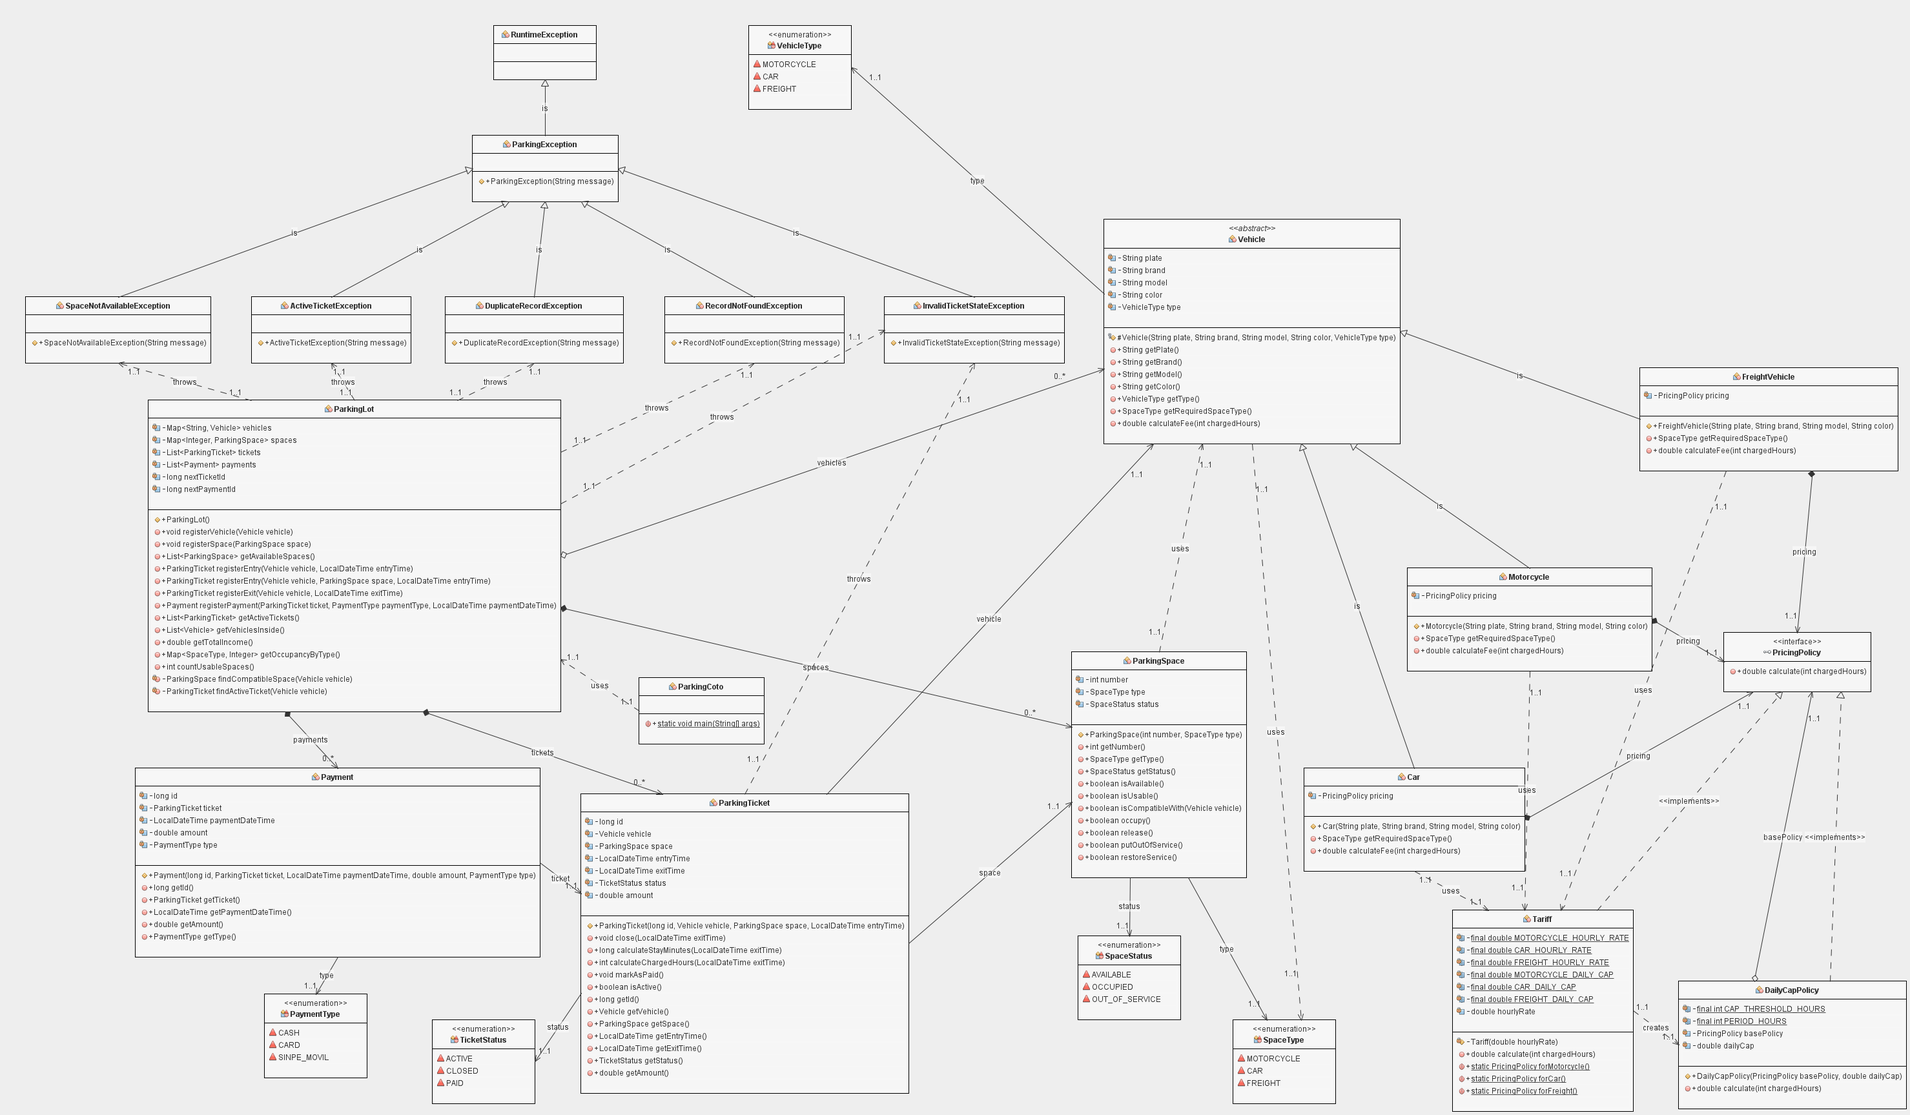
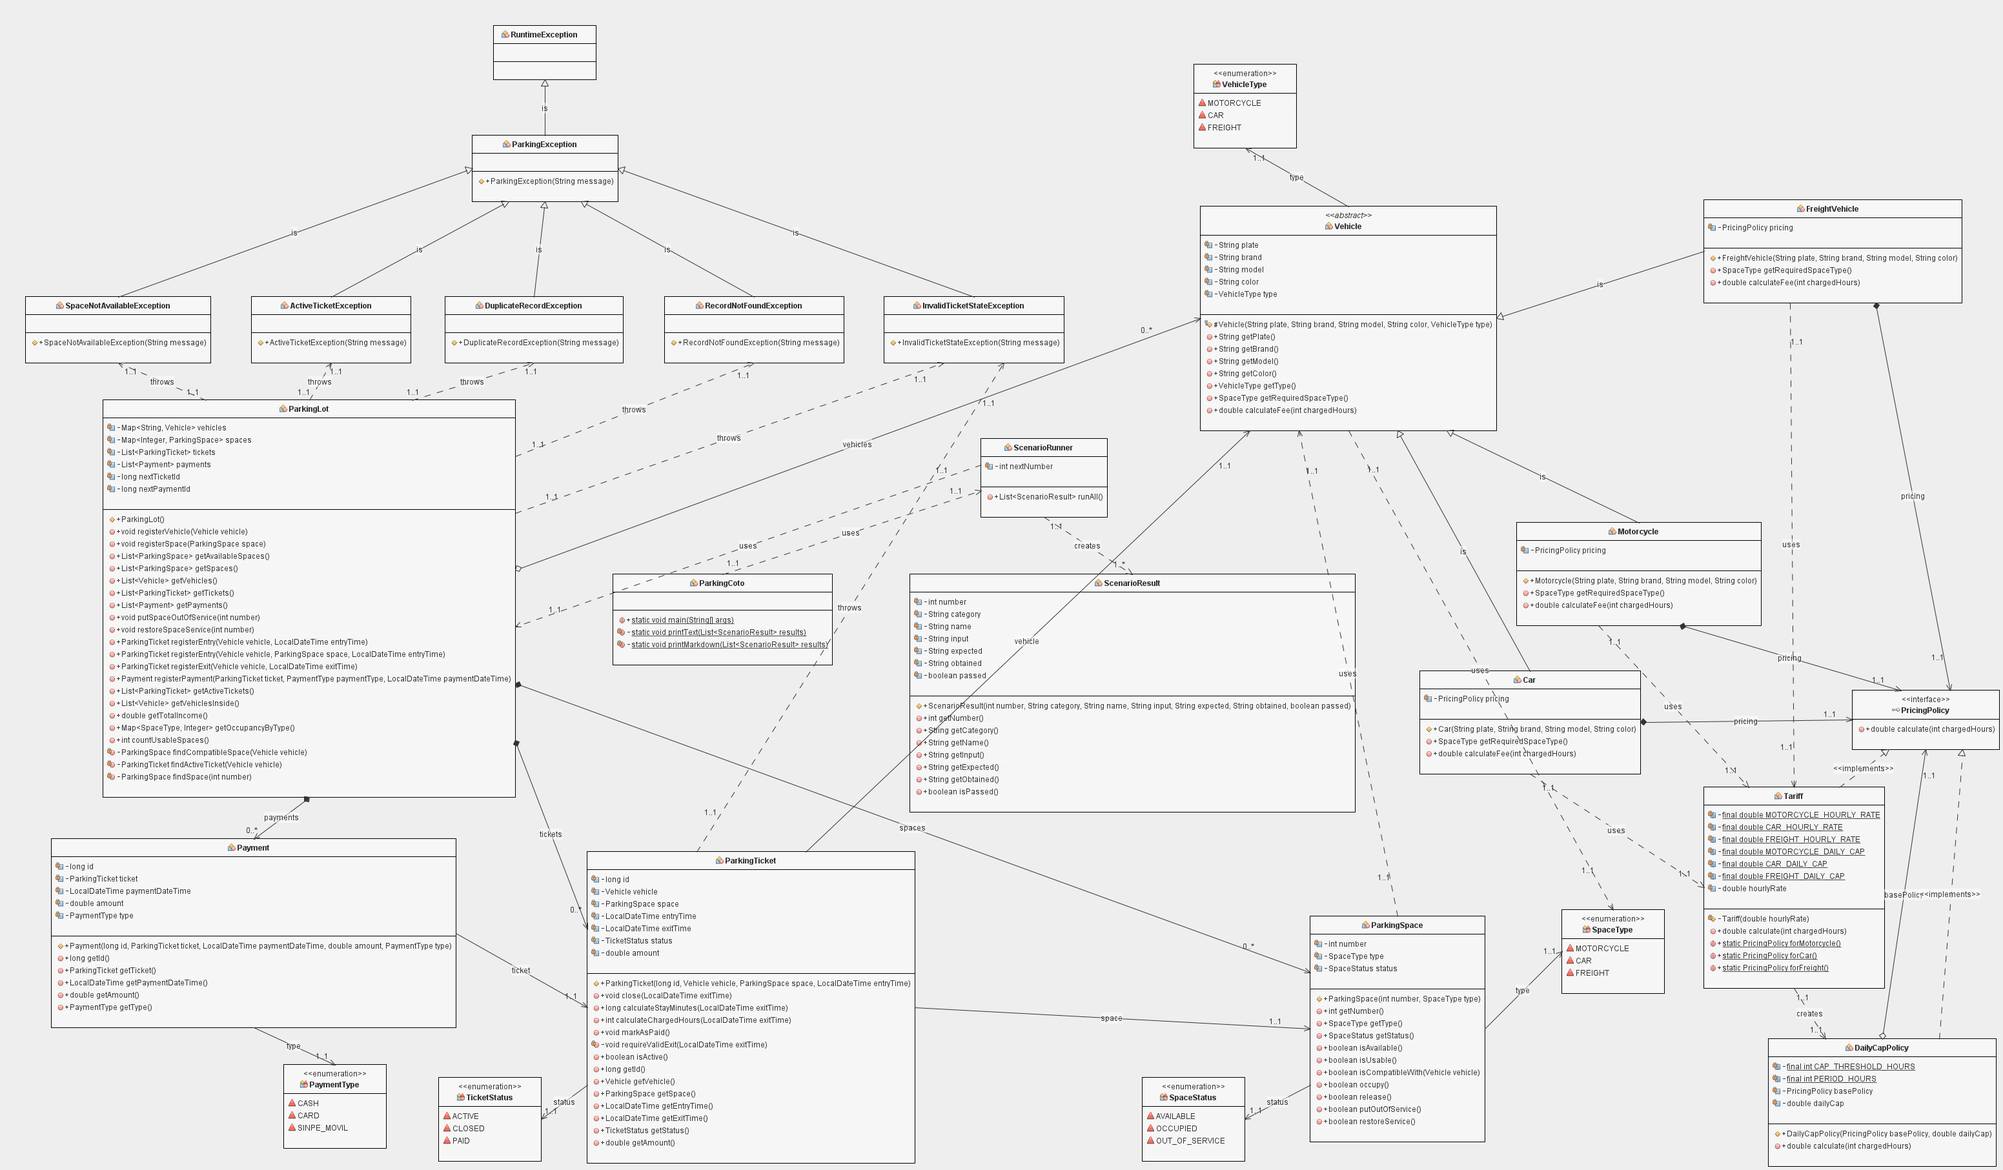
Update UML, README, test table and interface screenshots
The UML includes the new ParkingLot methods and the scenario classes. The test table is generated from the real execution of the scenarios. README documents how to run the interface, the console mode and the tests.

diff --git a/README.md b/README.md
@@ -1,94 +1,130 @@
 # Parking Coto
 
-Parking Coto is an object-oriented Java project designed to manage a private parking lot, including vehicle admission, occupancy control, ticket generation, payments, and billing.
+Sistema de gestión de un parqueo privado con cobro por hora, hecho en Java con programación orientada a objetos y una interfaz gráfica en JavaFX. Proyecto 2 del curso EIF400 · Paradigmas de Programación.
 
-## Overview
-The system follows object-oriented programming principles and distributes responsibilities among domain classes instead of concentrating business logic in a single class. It includes vehicle management, parking space validation, ticket handling, pricing calculations, and payment tracking.
+Controla vehículos, espacios, ingresos, tickets, salidas, cobro, pagos, ocupación e ingresos, repartiendo las responsabilidades entre las clases del dominio en lugar de concentrar la lógica en una sola.
 
-## Project structure
+![Dashboard](docs/capturas/01-dashboard.png)
+
+## Requisitos
+
+- **JDK 17 o superior** (probado con 17 y 21).
+- **Maven 3.9 o superior**. NetBeans ya lo trae integrado, no hace falta instalarlo aparte.
+- Opcional: **NetBeans** para ejecutar con un clic y abrir el diagrama UML, y **Scene Builder** para editar las pantallas (archivos `.fxml`).
+
+## Cómo ejecutar
+
+Todos los comandos se escriben dentro de la carpeta `parking-coto`.
+
+### 1. La aplicación con interfaz gráfica
+
+```bash
+mvn javafx:run
+```
+
+Con NetBeans: abrir la carpeta `parking-coto` como proyecto y usar *Run Project* (F6). Maven descarga JavaFX la primera vez, por eso necesita internet.
+
+### 2. Los casos de prueba en consola (no necesita JavaFX)
+
+```bash
+mvn compile
+java -Dstdout.encoding=UTF-8 -cp target/classes cr.ac.una.parking.coto.ParkingCoto --console
+```
+
+Con `--markdown` en lugar de `--console` imprime los casos como tabla Markdown, que es como se generó [docs/tabla-pruebas.md](docs/tabla-pruebas.md).
+
+### 3. Las pruebas automáticas (JUnit)
+
+```bash
+mvn test
+```
+
+Con NetBeans: clic derecho sobre el proyecto y *Test*. Resultado esperado: 38 pruebas, 0 fallos.
+
+## Cómo usar la interfaz en una demostración
+
+El menú lateral tiene un paso por pantalla:
+
+1. **Vehículos** → *Cargar datos de ejemplo* registra 7 espacios y 7 vehículos.
+2. **Registrar ingreso** → elige el vehículo y escribe la fecha y hora de entrada. Se asigna automáticamente un espacio compatible. Marcando *Elegir el espacio manualmente* se pueden probar los rechazos por espacio ocupado, fuera de servicio o incompatible.
+3. **Registrar salida** → los atajos (`+1 min`, `+60 min`, `+61 min`, `+2 h`, `+11 h`, `+25 h`) ponen la hora de salida a ese tiempo después de la entrada, así se muestran todas las permanencias sin esperar. Muestra horas cobradas y monto.
+4. **Registrar pago** → cobra el ticket cerrado. Un ticket que sigue activo se rechaza.
+5. **Tickets** y **Consultas y reportes** → tickets activos e historial, vehículos dentro, espacios disponibles, pagos, ocupación por tipo e ingresos totales.
+6. **Casos de prueba** → *Ejecutar casos de prueba* corre los 15 casos obligatorios del enunciado y 4 adicionales, y compara lo esperado con lo obtenido.
+
+Cada operación muestra un aviso verde si funcionó, o uno rojo con el nombre de la excepción de negocio si una regla la rechazó. El panel *Actividad reciente* del Dashboard guarda la secuencia.
+
+Si se copian `logo.png` y `banner.png` en `parking-coto/src/main/resources/cr/ac/una/parking/coto/ui/`, reemplazan el logo del menú y la imagen del banner.
+
+## Estructura del proyecto
 
 ```text
 Parking-Coto-POO/
 ├── README.md
 ├── docs/
+│   ├── diagrama-uml.png          Diagrama de clases
+│   ├── tabla-pruebas.md          Casos con resultado esperado y obtenido
 │   ├── InformeProyecto.md
-│   └── tabla-pruebas.md
-├── ParkingCotoUML/
-│   ├── Class Diagrams/
-│   │   └── ParkingCoto.cdg
-│   └── umlproject/
+│   └── capturas/                 Capturas de la interfaz
+├── ParkingCotoUML/               Proyecto de easyUML (NetBeans)
+│   └── Class Diagrams/ParkingCoto.cdg
 └── parking-coto/
     ├── pom.xml
     └── src/
-        ├── main/java/cr/ac/una/parking/coto
-        └── test/java/cr/ac/una/parking/coto
+        ├── main/java/cr/ac/una/parking/coto/
+        │   ├── ParkingCoto.java  Punto de entrada
+        │   ├── ParkingLot.java   Coordina colecciones y flujo del negocio
+        │   ├── model/            Vehicle, Car, Motorcycle, FreightVehicle, ParkingSpace, ParkingTicket, Payment
+        │   ├── pricing/          PricingPolicy, Tariff, DailyCapPolicy
+        │   ├── enums/            VehicleType, SpaceType, SpaceStatus, TicketStatus, PaymentType
+        │   ├── exception/        ParkingException y las excepciones de reglas de negocio
+        │   ├── scenario/         ScenarioRunner, ScenarioResult, SampleData
+        │   └── ui/               Interfaz JavaFX: ParkingApp y los controllers
+        ├── main/resources/cr/ac/una/parking/coto/ui/   Pantallas .fxml y estilos .css
+        └── test/java/cr/ac/una/parking/coto/           Pruebas JUnit
 ```
 
-## Requirements
-- Java 8 or newer
-- Maven 3.9 or newer
-- NetBeans (recommended) to open the UML diagram
+## Diseño
 
-## Main packages
-- `cr.ac.una.parking.coto.model` — domain entities such as vehicles, spaces, tickets, and payments
-- `cr.ac.una.parking.coto.enums` — enumeration types for vehicle, space, ticket, and payment states
-- `cr.ac.una.parking.coto.exception` — custom exceptions for business rule violations
-- `cr.ac.una.parking.coto.pricing` — tariff policies and pricing logic
-- `cr.ac.una.parking.coto` — parking coordinator and main entry point
+![Diagrama UML](docs/diagrama-uml.png)
 
-## Features implemented
-- Vehicle registration
-- Parking space registration
-- Automatic assignment of compatible spaces
-- Entry/exit flow with ticket control
-- Hour-based billing and daily cap
-- Payment registration
-- Occupancy and income queries
-- Validation of business rules through exceptions
-- Unit tests covering core scenarios
+- **Herencia y polimorfismo.** `Vehicle` es abstracta y `Car`, `Motorcycle` y `FreightVehicle` la especializan: cada una define el tipo de espacio que necesita y su política de cobro. Ningún código pregunta por el tipo concreto: `ParkingTicket` solo llama a `vehicle.calculateFee(horas)`.
+- **Tarifas en un solo lugar.** `Tariff` contiene las tres tarifas por hora y los tres topes diarios, y nada más define montos.
+- **El tope diario evoluciona sin condiciones dispersas.** `DailyCapPolicy` envuelve cualquier `PricingPolicy` (patrón decorator) y le aplica el tope por cada período de 24 horas desde 10 horas cobradas. Quitar el tope a un tipo de vehículo, o crear otra forma de cobro, no toca las clases de vehículo.
+- **Cada regla vive en la clase responsable.** `ParkingSpace` valida ocupación y compatibilidad, `ParkingTicket` valida el cierre y el pago y calcula las horas cobradas, `ParkingLot` valida registros, tickets activos y disponibilidad.
+- **Interfaz sin lógica de negocio.** Los controllers de `ui` solo leen los campos, llaman a `ParkingLot` y muestran el resultado o la excepción.
 
-## Business rules covered
-- A vehicle cannot have two active tickets
-- A space cannot be assigned while occupied or out of service
-- A vehicle must use a compatible space type
-- A ticket cannot be paid while still active
-- Billing is computed from the real vehicle type through polymorphism
-- Daily cap logic is centralized in the pricing policy
+### Nombres en español
 
-## Running the project
-### 1. Compile and test
-From the project root:
+El código está en inglés; estos son los términos del enunciado:
 
-```bash
-cd parking-coto
-mvn test
-```
+| Enunciado | Código |
+|---|---|
+| Automóvil, Motocicleta, Vehículo de carga | `CAR`, `MOTORCYCLE`, `FREIGHT` |
+| DISPONIBLE, OCUPADO, FUERA_DE_SERVICIO | `AVAILABLE`, `OCCUPIED`, `OUT_OF_SERVICE` |
+| ACTIVO, CERRADO, PAGADO | `ACTIVE`, `CLOSED`, `PAID` |
+| EFECTIVO, TARJETA, SINPE_MOVIL | `CASH`, `CARD`, `SINPE_MOVIL` |
 
-### 2. Run the sample entry point
+Cada constante tiene `getDisplayName()` con su nombre en español, que es el que muestra la interfaz.
 
-```bash
-cd parking-coto
-mvn exec:java -Dexec.mainClass=cr.ac.una.parking.coto.ParkingCoto
-```
+## Reglas de negocio
 
-## UML diagram
-The class diagram is included in the repository and can be opened in NetBeans:
+- Un vehículo no puede tener dos tickets activos (`ActiveTicketException`).
+- Un espacio ocupado o fuera de servicio no se puede asignar, y debe ser compatible con el vehículo (`SpaceNotAvailableException`).
+- No se puede registrar una salida sin ticket activo (`RecordNotFoundException`).
+- No se puede pagar un ticket que sigue activo (`InvalidTicketStateException`).
+- Toda fracción de hora se cobra como hora completa.
+- El espacio se libera al registrar la salida.
+- Tarifas por hora: motocicleta ₡500, automóvil ₡900, carga ₡1 500. Tope por cada período diario desde 10 horas: ₡4 000, ₡7 000 y ₡11 000.
 
-[ParkingCotoUML/Class Diagrams/ParkingCoto.cdg](ParkingCotoUML/Class%20Diagrams/ParkingCoto.cdg)
+## Pruebas
 
-## Testing
-The project includes JUnit tests covering the main parking rules and edge cases.
-Current verification status:
-- 16 tests executed
-- 0 failures
-- 0 errors
-- Build success
+38 pruebas JUnit y 19 casos de demostración (los 15 obligatorios del enunciado más 4 adicionales). El detalle, con entrada, resultado esperado y resultado obtenido, está en [docs/tabla-pruebas.md](docs/tabla-pruebas.md).
 
-## Documentation
-Additional project documentation is available in:
-- [docs/InformeProyecto.md](docs/InformeProyecto.md)
-- [docs/tabla-pruebas.md](docs/tabla-pruebas.md)
+## Diagrama UML
 
-## License
-This project is intended for academic use in the course EIF400 - Programming Paradigms.
+El diagrama de clases está en [ParkingCotoUML/Class Diagrams/ParkingCoto.cdg](ParkingCotoUML/Class%20Diagrams/ParkingCoto.cdg), que se abre con NetBeans (*File → Open Project* sobre la carpeta `ParkingCotoUML`, plugin easyUML). La imagen es [docs/diagrama-uml.png](docs/diagrama-uml.png). Representa el modelo del dominio y las clases de escenarios; la capa de interfaz (`ui`) se describe aparte en el informe.
 
+## Licencia
+
+Proyecto académico del curso EIF400 · Paradigmas de Programación.

diff --git a/docs/tabla-pruebas.md b/docs/tabla-pruebas.md
@@ -1,25 +1,52 @@
 # Tabla de pruebas del proyecto Parking Coto
 
-| # | Caso de prueba | Entrada | Resultado esperado | Resultado obtenido |
-|---|---|---|---|---|
-| 1 | Ingreso correcto de un automóvil | Auto registrado y espacio de carro disponible | Ticket activo generado | Correcto |
-| 2 | Ingreso correcto de una motocicleta | Moto registrada y espacio compatible | Ticket activo generado | Correcto |
-| 3 | Ingreso correcto de un vehículo de carga | Vehículo de carga registrado | Ticket activo generado | Correcto |
-| 4 | Espacio ocupado | Dos vehículos intentan usar el mismo espacio | Se rechaza la asignación | Correcto |
-| 5 | Espacio fuera de servicio | Se intenta usar un espacio marcado fuera de servicio | Se rechaza la asignación | Correcto |
-| 6 | Espacio incompatible | Auto intenta usar espacio de moto | Se rechaza la asignación | Correcto |
-| 7 | Vehículo con ticket activo duplicado | Mismo vehículo intenta entrar otra vez | Se rechaza la operación | Correcto |
-| 8 | Permanencia de 1 minuto | 1 minuto de permanencia | Cobro equivalente a 1 hora | Correcto |
-| 9 | Permanencia de 60 minutos | 60 minutos de permanencia | Cobro equivalente a 1 hora | Correcto |
-| 10 | Permanencia de 61 minutos | 61 minutos de permanencia | Cobro equivalente a 2 horas | Correcto |
-| 11 | Más de 10 horas con tarifa máxima | 10 o más horas | Aplicación del tope diario | Correcto |
-| 12 | Cierre correcto del ticket | Salida posterior a la entrada | Ticket pasa a cerrado y libera espacio | Correcto |
-| 13 | Pago correcto | Se registra el pago de un ticket cerrado | Ticket pasa a pagado y se acumula ingreso | Correcto |
-| 14 | Liberación del espacio | Finaliza la salida correctamente | Espacio vuelve a disponible | Correcto |
-| 15 | Cálculo de ingresos totales | Pago realizado | Total acumulado correcto | Correcto |
-| 16 | Consulta de vehículos dentro | Vehículo activo o cerrado recientemente | Lista con vehículos dentro | Correcto |
+Los resultados de esta tabla **no están escritos a mano**: se generan ejecutando cada caso contra las clases reales del sistema, sobre un parqueo nuevo en cada caso. Se pueden reproducir de tres formas:
+
+- en la interfaz, pantalla **Casos de prueba**, botón *Ejecutar casos de prueba*;
+- en consola: `java -cp target/classes cr.ac.una.parking.coto.ParkingCoto --console`;
+- como tabla Markdown (la de abajo): `java -cp target/classes cr.ac.una.parking.coto.ParkingCoto --markdown`.
+
+Los casos 1 a 15 son los obligatorios del enunciado (sección 12). Los casos 16 a 19 son reglas adicionales de la sección 8 y del requerimiento del tope diario.
+
+## Casos del enunciado y reglas adicionales
+
+| # | Tipo | Caso | Entrada | Resultado esperado | Resultado obtenido | Veredicto |
+|---|---|---|---|---|---|---|
+| 1 | Obligatorio | Ingreso correcto de un automóvil | El automóvil ABC123 ingresa a las 08:00 con espacios libres de todos los tipos | Ticket Activo en espacio 1 (Automóvil), espacio Ocupado | Ticket Activo en espacio 1 (Automóvil), espacio Ocupado | Correcto |
+| 2 | Obligatorio | Ingreso correcto de una motocicleta | La motocicleta MOT111 ingresa a las 08:00 con espacios libres de todos los tipos | Ticket Activo en espacio 2 (Motocicleta), espacio Ocupado | Ticket Activo en espacio 2 (Motocicleta), espacio Ocupado | Correcto |
+| 3 | Obligatorio | Ingreso correcto de un vehículo de carga | El vehículo de carga CAR999 ingresa a las 08:00 con espacios libres de todos los tipos | Ticket Activo en espacio 3 (Carga), espacio Ocupado | Ticket Activo en espacio 3 (Carga), espacio Ocupado | Correcto |
+| 4 | Obligatorio | Intento de asignar un espacio ocupado | Un automóvil ocupa el espacio 1 y otro automóvil intenta usar ese mismo espacio | SpaceNotAvailableException | SpaceNotAvailableException: El espacio no está disponible | Correcto |
+| 5 | Obligatorio | Intento de asignar un espacio fuera de servicio | El espacio 4 se pone fuera de servicio y un automóvil intenta usarlo | SpaceNotAvailableException | SpaceNotAvailableException: El espacio no está disponible | Correcto |
+| 6 | Obligatorio | Intento de asignar un espacio incompatible | Un automóvil intenta usar el espacio 2, que es para motocicletas | SpaceNotAvailableException | SpaceNotAvailableException: El espacio no es compatible con el vehículo | Correcto |
+| 7 | Obligatorio | Intento de ingresar un vehículo que ya tiene ticket activo | El automóvil ABC123 ingresa y vuelve a intentar ingresar sin haber salido | ActiveTicketException | ActiveTicketException: El vehículo ya tiene un ticket activo | Correcto |
+| 8 | Obligatorio | Permanencia de 1 minuto | Automóvil: entra a las 08:00 y sale a las 08:01 | Horas cobradas: 1, monto: ₡900 | Horas cobradas: 1, monto: ₡900 | Correcto |
+| 9 | Obligatorio | Permanencia de 60 minutos | Automóvil: entra a las 08:00 y sale a las 09:00 | Horas cobradas: 1, monto: ₡900 | Horas cobradas: 1, monto: ₡900 | Correcto |
+| 10 | Obligatorio | Permanencia de 61 minutos | Automóvil: entra a las 08:00 y sale a las 09:01 | Horas cobradas: 2, monto: ₡1 800 | Horas cobradas: 2, monto: ₡1 800 | Correcto |
+| 11 | Obligatorio | Permanencia de más de 10 horas con tarifa máxima | Automóvil: entra a las 08:00 y sale 11 horas después (sin tope serían ₡9 900) | Horas cobradas: 11, monto: ₡7 000 | Horas cobradas: 11, monto: ₡7 000 | Correcto |
+| 12 | Obligatorio | Cierre correcto del ticket | Un automóvil registra su salida 2 horas después de entrar | Ticket Cerrado, hora de salida registrada, monto ₡1 800 | Ticket Cerrado, hora de salida registrada, monto ₡1 800 | Correcto |
+| 13 | Obligatorio | Pago correcto | Se paga en efectivo el ticket cerrado de un automóvil que estuvo 2 horas | Ticket Pagado, pago de ₡1 800 con Efectivo | Ticket Pagado, pago de ₡1 800 con Efectivo | Correcto |
+| 14 | Obligatorio | Liberación del espacio | Un automóvil ocupa el espacio 1 y después registra su salida | Espacio 1: Ocupado al entrar, Disponible al salir | Espacio 1: Ocupado al entrar, Disponible al salir | Correcto |
+| 15 | Obligatorio | Cálculo de ingresos totales | Se pagan un automóvil (1 hora, ₡900) y una motocicleta (1 hora, ₡500) | Ingresos totales: ₡1 400 | Ingresos totales: ₡1 400 | Correcto |
+| 16 | Adicional | Salida sin ticket activo | Un automóvil registrado que nunca ingresó intenta registrar su salida | RecordNotFoundException | RecordNotFoundException: No existe un ticket activo para ese vehículo | Correcto |
+| 17 | Adicional | Pago de un ticket que sigue activo | Un automóvil está dentro del parqueo y se intenta pagar su ticket | InvalidTicketStateException | InvalidTicketStateException: No se puede pagar un ticket activo | Correcto |
+| 18 | Adicional | Permanencia de más de 24 horas | Automóvil: entra a las 08:00 y sale 25 horas después (un día completo más 1 hora) | Horas cobradas: 25, monto: ₡7 900 | Horas cobradas: 25, monto: ₡7 900 | Correcto |
+| 19 | Adicional | Monto según el tipo real del vehículo | Una motocicleta, un automóvil y un vehículo de carga permanecen 2 horas cada uno | Motocicleta ₡1 000, Automóvil ₡1 800, Vehículo de carga ₡3 000 | Motocicleta ₡1 000, Automóvil ₡1 800, Vehículo de carga ₡3 000 | Correcto |
+
+## Pruebas automáticas (JUnit)
+
+Además de los casos anteriores, el proyecto tiene pruebas JUnit que se ejecutan con `mvn test` (o con *Test* en NetBeans).
+
+| Clase de prueba | Pruebas | Qué cubre |
+|---|---|---|
+| `ParkingLotTest` | 23 | Ingresos por tipo de vehículo, espacio ocupado, fuera de servicio e incompatible, ticket activo duplicado, salida sin ticket, permanencias de 1, 60 y 61 minutos, tope diario por tipo de vehículo, cierre, pago, pago de un ticket activo, liberación del espacio, ingresos totales, vehículos dentro, ocupación por tipo y hora de entrada nula |
+| `ParkingLotServiceTest` | 6 | Espacios ordenados por número, asignación del espacio compatible más bajo, poner un espacio fuera de servicio y restaurarlo, historial de solo lectura |
+| `TariffTest` | 6 | Tarifa por hora, tope diario desde 10 horas, tope por cada período de 24 horas (25, 34, 48 y 49 horas), redondeo de cualquier fracción de hora, rechazo de horas de salida inválidas |
+| `ScenarioRunnerTest` | 3 | Los 19 casos de la tabla anterior pasan, 15 son obligatorios y están numerados en orden |
+| **Total** | **38** | **0 fallos, 0 errores** |
 
 ## Observaciones
-- La regla de fracción de hora se cobra como hora completa.
-- La tarifa máxima diaria se aplica cuando la permanencia iguala o supera las 10 horas cobradas.
-- El espacio solo se libera al cerrar el ticket correctamente.
+
+- Toda fracción de hora se cobra como hora completa, incluso si son segundos: 1 hora y 30 segundos se cobra como 2 horas.
+- El tope diario se aplica cuando las horas cobradas llegan a 10, y cada período de 24 horas cuesta como máximo el tope. Por eso 9 horas de un automóvil cuestan ₡8 100 y 10 horas cuestan ₡7 000: es lo que resulta de aplicar literalmente la regla «para permanencias de 10 horas o más».
+- El espacio se libera al registrar la salida (ticket cerrado), antes del pago. Un ticket cerrado todavía no pagado no cuenta como vehículo dentro del parqueo.
+- Las excepciones de negocio (`SpaceNotAvailableException`, `ActiveTicketException`, `InvalidTicketStateException`, `RecordNotFoundException`, `DuplicateRecordException`) heredan de `ParkingException`; en los casos que esperan una excepción, el resultado obtenido muestra el nombre de la que lanzó el sistema y su mensaje.
